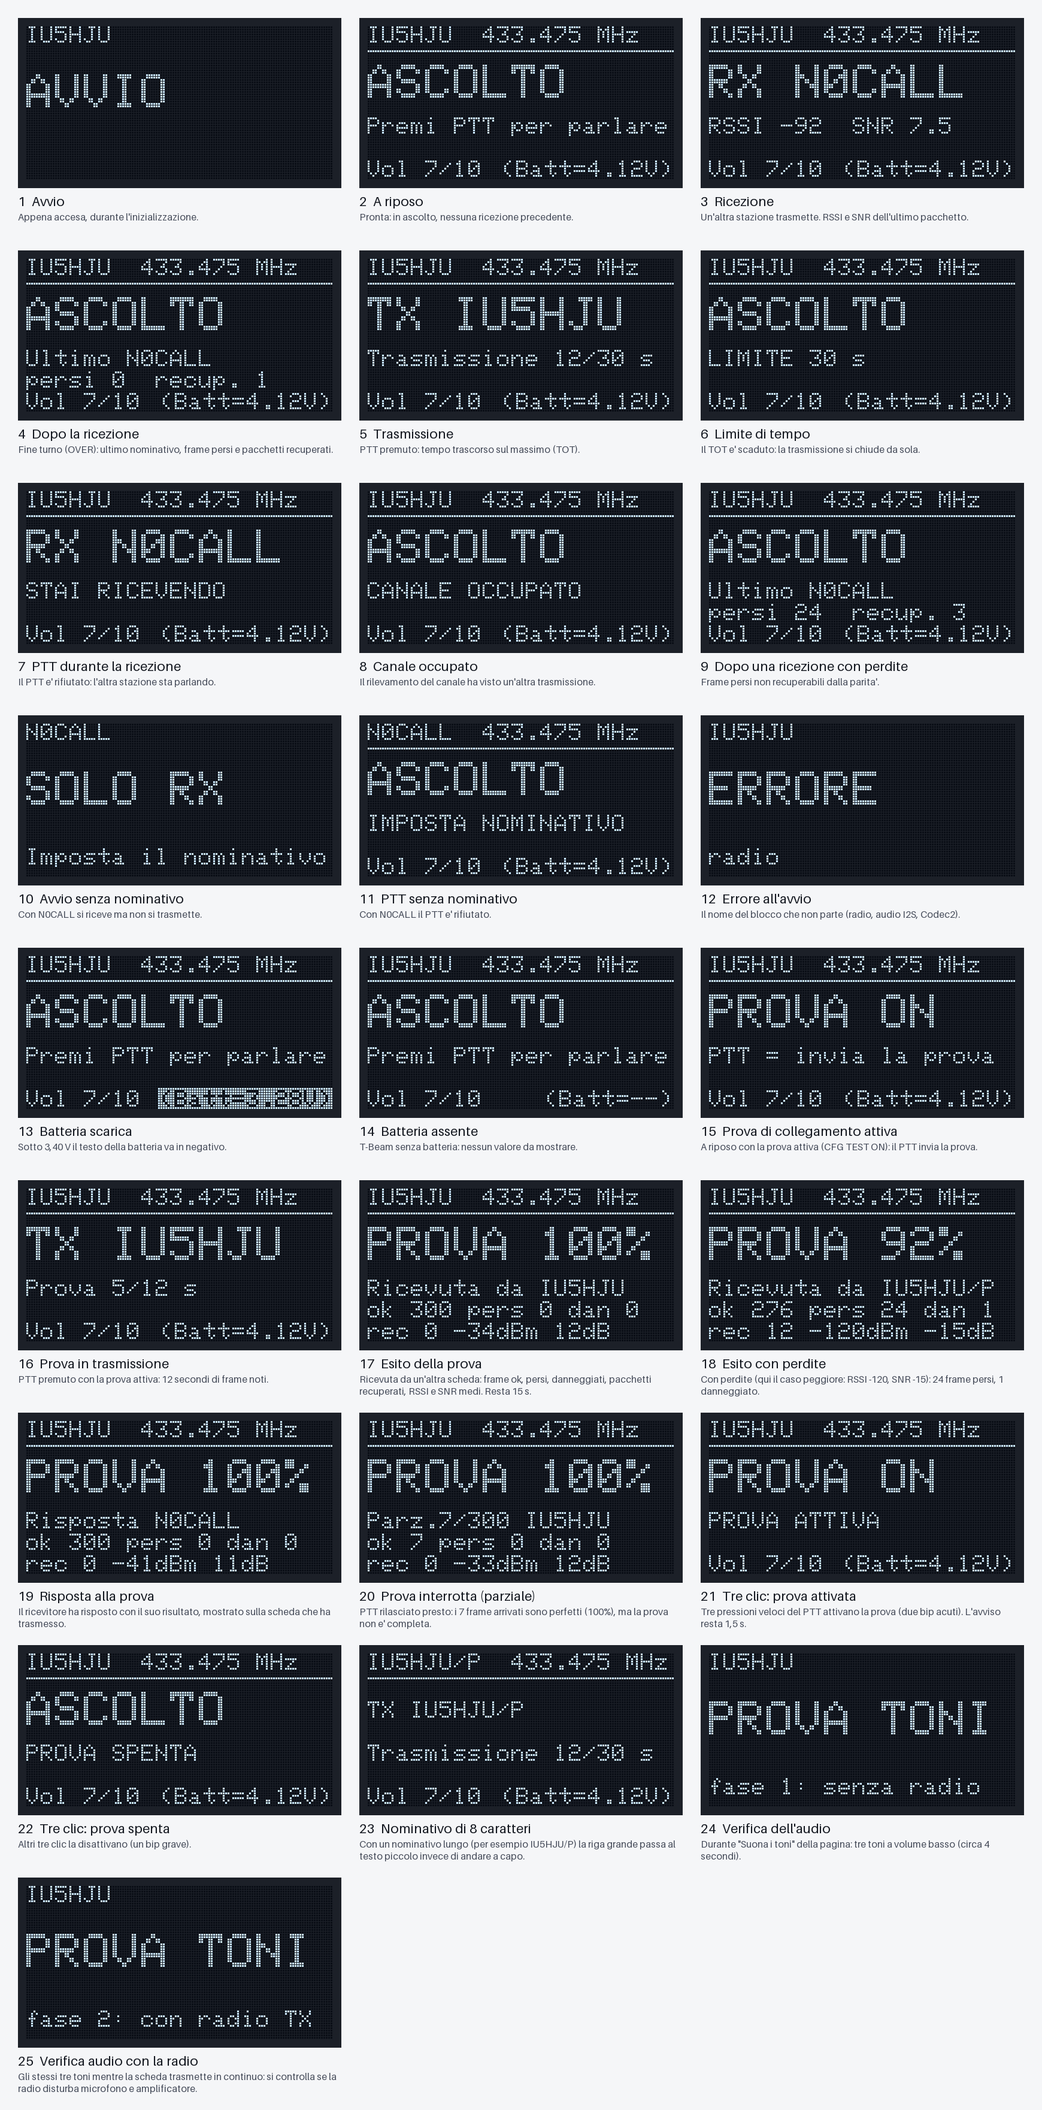
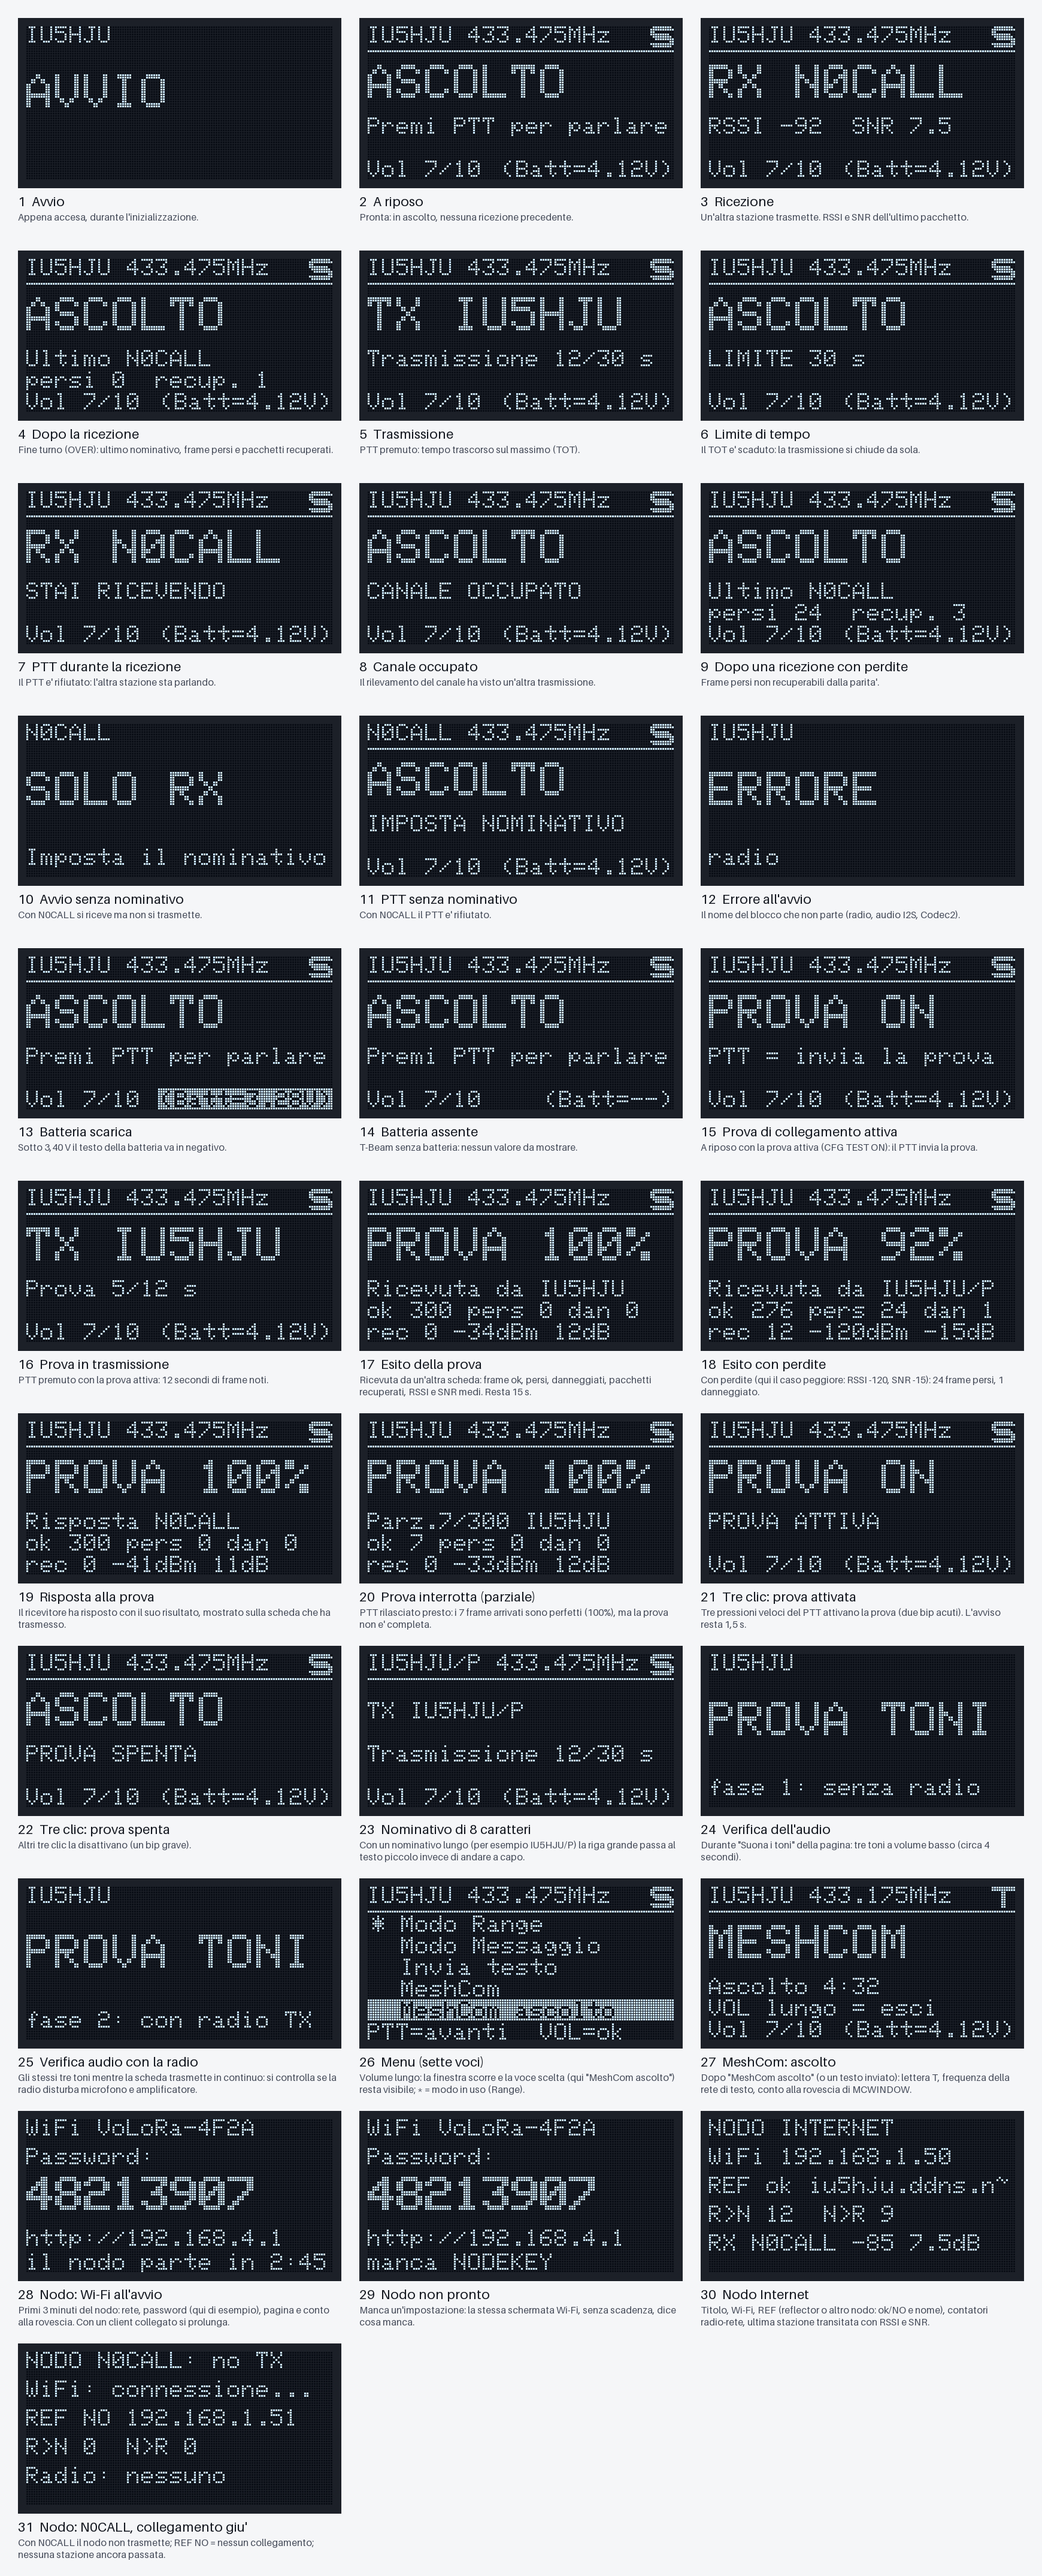
Mockup del display: menu a sette voci, MeshCom ascolto, nodo Internet e Wi-Fi del nodo (31 schermate); nominativo e lettera del profilo come nel firmware
Claude-Session: https://claude.ai/code/session_01XeozYwmYoAwuvXXpMrm81B

diff --git a/tools/render_display.py b/tools/render_display.py
@@ -89,6 +89,26 @@ class Oled:
                 self.px[y][x + i] = True
 
 
+BADGES = {
+    "S": [".XXXXXXXX.", "XXXXXXXXXX", "XX........", "XXXXXXXX..", ".XXXXXXXX.", "..XXXXXXXX", "........XX", "XXXXXXXXXX", ".XXXXXXXX."],
+    "M": ["XX......XX", "XXX....XXX", "XXXX..XXXX", "XX.XXXX.XX", "XX..XX..XX", "XX......XX", "XX......XX", "XX......XX", "XX......XX"],
+    "R": ["XXXXXXXX..", "XXXXXXXXX.", "XX.....XXX", "XX.....XXX", "XXXXXXXXX.", "XXXXXXXX..", "XX..XXX...", "XX...XXX..", "XX....XXXX"],
+    "T": ["XXXXXXXXXX", "XXXXXXXXXX", "....XX....", "....XX....", "....XX....", "....XX....", "....XX....", "....XX....", "....XX...."],
+}
+
+
+def header(o, callsign=CALLSIGN, freq=FREQ, badge="S"):
+    """Come l'inizio di UiNotifier::draw(): nominativo e frequenza, lettera del profilo (S/R/M, T in MeshCom) e riga di separazione."""
+    o.set_size(1)
+    o.set_cursor(0, 0)
+    o.write(f"{callsign} {freq}MHz")
+    for y, row in enumerate(BADGES[badge]):
+        for x, ch in enumerate(row):
+            if ch == "X":
+                o.px[y][118 + x] = True
+    o.hline(0, 10, 128)
+
+
 def big_text(o, y, text):
     """Come bigText() di src/ui.cpp: testo 2 fino a 10 caratteri, altrimenti testo 1 (niente a capo)."""
     fits = len(text) <= 10
@@ -113,16 +133,13 @@ def show_message(font, line1, line2=None, callsign=CALLSIGN):
 
 
 def draw_screen(font, state="idle", rx_call="", rssi=0, snr=0.0, tx_seconds=0, notice=None,
-                last=None, volume=7, callsign=CALLSIGN, battery=4.12, test_mode=False):
+                last=None, volume=7, callsign=CALLSIGN, battery=4.12, test_mode=False, mesh_sec=0):
     """Come UiNotifier::draw(). last = (nominativo, persi, recuperati) oppure None."""
     o = Oled(font)
-    o.set_size(1)
-    o.set_cursor(0, 0)
-    o.write(f"{callsign}  {FREQ} MHz")
-    o.hline(0, 10, 128)
+    header(o, callsign, "433.175" if mesh_sec else FREQ, "T" if mesh_sec else "S")
 
     if state == "idle":
-        big = "PROVA ON" if test_mode else "ASCOLTO"
+        big = "MESHCOM" if mesh_sec else ("PROVA ON" if test_mode else "ASCOLTO")
     elif state == "rx":
         big = f"RX {rx_call}"
     else:
@@ -137,6 +154,10 @@ def draw_screen(font, state="idle", rx_call="", rssi=0, snr=0.0, tx_seconds=0, n
         o.write(f"Prova {tx_seconds}/12 s" if test_mode else f"Trasmissione {tx_seconds}/30 s")
     elif state == "rx":
         o.write(f"RSSI {rssi}  SNR {snr:.1f}")
+    elif mesh_sec:
+        o.write(f"Ascolto {mesh_sec // 60}:{mesh_sec % 60:02d}")
+        o.set_cursor(0, 47)
+        o.write("VOL lungo = esci")
     elif last:
         o.write(f"Ultimo {last[0] or '-'}")
         o.set_cursor(0, 47)  # come src/ui.cpp
@@ -164,10 +185,7 @@ def draw_test_report(font, frames_ok, lost, bad, recovered, rssi, snr, call, rem
     """Come UiNotifier::drawTestReport(): esito della prova di collegamento (15 s)."""
     pct = 0 if frames_out == 0 else min(100, (100 * frames_ok + frames_out // 2) // frames_out)
     o = Oled(font)
-    o.set_size(1)
-    o.set_cursor(0, 0)
-    o.write(f"{callsign}  {FREQ} MHz")
-    o.hline(0, 10, 128)
+    header(o)
     o.set_size(2)
     o.set_cursor(0, 16)
     o.write(f"PROVA {pct}%")
@@ -181,6 +199,56 @@ def draw_test_report(font, frames_ok, lost, bad, recovered, rssi, snr, call, rem
     o.write(f"ok {frames_ok} pers {lost} dan {bad}")  # max 21 caratteri
     o.set_cursor(0, 56)
     o.write(f"rec {recovered} {rssi}dBm {snr}dB")
+    return o
+
+
+def draw_menu(font, labels, selected, current, callsign=CALLSIGN):
+    """Come UiNotifier::drawMenu(): cinque righe da 9 punti, la finestra scorre e la voce scelta resta visibile."""
+    o = Oled(font)
+    header(o, callsign)
+    rows = 5
+    first = selected - (rows - 1) if selected >= rows else 0
+    for i in range(first, min(len(labels), first + rows)):
+        y = 12 + (i - first) * 9
+        sel = i == selected
+        if sel:
+            o.fill_rect(0, y - 1, 128, 9)
+            o.inverse = True
+        o.set_cursor(2, y)
+        o.write(f"{'*' if i == current else ' '} {labels[i]}")
+        o.inverse = False
+    o.set_cursor(0, 57)
+    o.write("PTT=avanti  VOL=ok")
+    return o
+
+
+def show_wifi(font, ssid, password, footer):
+    """Come UiNotifier::showWifi(): password in carattere doppio e in grassetto."""
+    o = Oled(font)
+    o.set_size(1)
+    o.set_cursor(0, 0)
+    o.write(f"WiFi {ssid}")
+    o.set_cursor(0, 12)
+    o.write("Password:")
+    o.set_size(2)
+    for dx in range(2):
+        o.set_cursor(dx, 24)
+        o.write(password)
+    o.set_size(1)
+    o.set_cursor(0, 46)
+    o.write("http://192.168.4.1")
+    o.set_cursor(0, 56)
+    o.write(footer[:21])
+    return o
+
+
+def show_lines(font, lines):
+    """Come UiNotifier::showLines(): fino a cinque righe di testo piccolo, una ogni 12 punti, tagliate a 21 caratteri."""
+    o = Oled(font)
+    o.set_size(1)
+    for i, t in enumerate(lines):
+        o.set_cursor(0, i * 12)
+        o.write(t[:21])
     return o
 
 
@@ -236,6 +304,18 @@ def screens(font):
          show_message(font, "PROVA TONI", "fase 1: senza radio")),
         ("25  Verifica audio con la radio", "Gli stessi tre toni mentre la scheda trasmette in continuo: si controlla se la radio disturba microfono e amplificatore.",
          show_message(font, "PROVA TONI", "fase 2: con radio TX")),
+        ("26  Menu (sette voci)", "Volume lungo: la finestra scorre e la voce scelta (qui \"MeshCom ascolto\") resta visibile; * = modo in uso (Range).",
+         draw_menu(font, ["Modo Standard", "Modo Range", "Modo Messaggio", "Invia testo", "MeshCom", "MeshCom ascolto", "Wi-Fi"], 5, 1)),
+        ("27  MeshCom: ascolto", "Dopo \"MeshCom ascolto\" (o un testo inviato): lettera T, frequenza della rete di testo, conto alla rovescia di MCWINDOW.",
+         draw_screen(font, mesh_sec=272)),
+        ("28  Nodo: Wi-Fi all'avvio", "Primi 3 minuti del nodo: rete, password (qui di esempio), pagina e conto alla rovescia. Con un client collegato si prolunga.",
+         show_wifi(font, "VoLoRa-4F2A", "48213907", "il nodo parte in 2:45")),
+        ("29  Nodo non pronto", "Manca un'impostazione: la stessa schermata Wi-Fi, senza scadenza, dice cosa manca.",
+         show_wifi(font, "VoLoRa-4F2A", "48213907", "manca NODEKEY")),
+        ("30  Nodo Internet", "Titolo, Wi-Fi, REF (reflector o altro nodo: ok/NO e nome), contatori radio-rete, ultima stazione transitata con RSSI e SNR.",
+         show_lines(font, ["NODO INTERNET", "WiFi 192.168.1.50", "REF ok iu5hju.ddns.n~", "R>N 12  N>R 9", "RX N0CALL -85 7.5dB"])),
+        ("31  Nodo: N0CALL, collegamento giu'", "Con N0CALL il nodo non trasmette; REF NO = nessun collegamento; nessuna stazione ancora passata.",
+         show_lines(font, ["NODO N0CALL: no TX", "WiFi: connessione...", "REF NO 192.168.1.51", "R>N 0  N>R 0", "Radio: nessuno"])),
     ]
 
 

diff --git a/docs/display.md b/docs/display.md
@@ -10,7 +10,7 @@ automatico del codice in `src/ui.cpp`. Sul display reale i colori dipendono dal 
 
 - **Lettera del profilo:** in alto a destra, su ogni schermata, una lettera grande (bianca su nero, 10×9 punti) indica il profilo in uso: **S** Standard, **R** Range, **M** Messaggio. La riga del nominativo è stata accorciata (`IU5HJU 433.475MHz`) per farle posto.
 - **Menu (11/11/2026):** i tre profili si chiamano **Modo Standard**, **Modo Range** e **Modo Messaggio** (dal 12/11/2026; prima Standard, Messaggio e Qualità: la "à" di "Qualità" era il carattere CP437 del font dell'OLED, provato sulla scheda l'11/11/2026).
-- **Menu (14/11/2026):** sette voci: Standard, Range, Messaggio, Invia testo, MeshCom, **MeshCom ascolto** (solo ascolto per il tempo di `MCWINDOW`, senza inviare) e Wi-Fi.
+- **Menu (14/11/2026, schermata 26 del mockup):** sette voci: Standard, Range, Messaggio, Invia testo, MeshCom, **MeshCom ascolto** (solo ascolto per il tempo di `MCWINDOW`, senza inviare) e Wi-Fi.
 - **MeshCom (11/11/2026):** durante l'escursione sulle reti di testo la lettera in alto a destra è **T**, compare la frequenza della rete e lo schermo a riposo dice "MESHCOM" con il conto alla rovescia dell'ascolto; il menu ha sei voci (scorre: se ne vedono cinque, la scelta resta visibile) e la voce MeshCom apre due scelte (testo, poi destinatario). [meshcom-testo.md](meshcom-testo.md).
 - **Menu a bordo:** quattro voci (Standard, Range, Messaggio, Wi-Fi; dall'11/11 cinque, con "Invia testo"), una per riga; la scelta in negativo e il profilo in uso con `*`.
 - **Schermata Wi-Fi** (voce "Wi-Fi" del menu): in alto il nome della rete `VoLoRa-XXXX`, poi `Password:` e la **password in carattere doppio e in grassetto** (8 cifre), in basso `http://192.168.4.1` e `VOL lungo = esci`. Con questa schermata la scheda non trasmette e non riceve.
@@ -18,7 +18,7 @@ automatico del codice in `src/ui.cpp`. Sul display reale i colori dipendono dal 
 - **Modo Sysop (12/11/2026):** con `CFG SET SYSOPMODE ON` la voce "Invia testo" diventa "Comandi Sysop" e apre l'elenco dei comandi al ripetitore ("COMANDI SYSOP 3/10", PTT = altro, volume breve = invia). Durante l'invio la schermata dice "COMANDO" / "Trasmetto il comando"; la risposta del ripetitore compare per 4 s come avviso ("RIP: SPENTO", "RIP: ATTIVO 10dBm", "RIP: OK", "RIPETI IL COMANDO"). Vedi [studio-ripetitore.md](studio-ripetitore.md).
 - **Messaggi (11/11/2026):** a ricezione conclusa compare una **grande icona** (altoparlante = voce, busta = testo), "MESSAGGIO RICEVUTO" e "Premi PTT: ascolta" (o "leggi"); il PTT breve apre il messaggio. Il testo si legge a pagine di 6 righe (volume breve = pagina successiva). Il menu ha ora **cinque voci** (Standard, Range, Messaggio, **Invia testo**, Wi-Fi), senza titolo; "Invia testo" apre la scelta dei testi ("INVIA TESTO 2/5", "PTT=altro VOL=invia"). Dettagli in [modo-messaggio.md](modo-messaggio.md).
 - **Messaggio:** durante l'invio e la ricezione compare la percentuale (1-100%) con una barra di avanzamento.
-- L'immagine `images/display.png` è rigenerata dallo script (14/11/2026, 25 schermate, con `N0CALL` al posto dei nominativi di esempio e la frequenza predefinita 433.475 MHz) ma **non** mostra ancora le novità successive: le schermate della **prova di potenza** (in corso con la potenza, esito `MIN … dBm`, `NON PULITA`, `NESSUNA`) e i passi della prova sono descritti nel testo qui sopra.
+- L'immagine `images/display.png` è rigenerata dallo script (14/11/2026, 31 schermate: ora con nominativo e lettera del profilo in alto, menu, MeshCom, nodo Internet e Wi-Fi del nodo, con `N0CALL` al posto dei nominativi di esempio e la frequenza predefinita 433.475 MHz) ma **non** mostra ancora le novità successive: le schermate della **prova di potenza** (in corso con la potenza, esito `MIN … dBm`, `NON PULITA`, `NESSUNA`) e i passi della prova sono descritti nel testo qui sopra.
 
 ## Struttura di una schermata
 
@@ -75,9 +75,9 @@ In modo nodo la scheda non ha menu né lettera del profilo: cinque righe fisse, 
 | 2 | `WiFi 192.168.x.y` oppure `WiFi: connessione...` |
 | 3 | `REF ok iu5hju.ddns.n~` / `REF NO ...`: stato del collegamento con il reflector o con l'altro nodo e il suo nome (oltre 14 caratteri tagliato, con `~`) |
 | 4 | `R>N 12  N>R 9`: pacchetti dalla radio alla rete e dalla rete alla radio; con coda o pacchetti persi diversi da zero si aggiungono `C` e `P` |
-| 5 | l'ultima stazione transitata: `RX IU5HJU -85dBm 7.5dB` (fino a 5 s dopo l'ultimo pacchetto, poi `Ult`), `Radio: nessuno` se non è ancora passato niente |
+| 5 | l'ultima stazione transitata: `RX IU5HJU -85 7.5dB` (fino a 5 s dopo l'ultimo pacchetto, poi `Ult`), `Radio: nessuno` se non è ancora passato niente |
 
-Nei primi 3 minuti dopo l'accensione la schermata è quella del Wi-Fi di configurazione (rete, password, indirizzo e conto alla rovescia); se il nodo non è pronto dice cosa manca. Vedi [banco-nodo.md](banco-nodo.md). Le immagini del mockup non includono questa schermata.
+Nei primi 3 minuti dopo l'accensione la schermata è quella del Wi-Fi di configurazione (rete, password, indirizzo e conto alla rovescia); se il nodo non è pronto dice cosa manca. Vedi [banco-nodo.md](banco-nodo.md). Nel mockup sono le schermate 28-31.
 
 ## Batteria (in basso a destra)
 

diff --git a/docs/banco-nodo.md b/docs/banco-nodo.md
@@ -89,7 +89,7 @@ Costo: ogni avvio in modo nodo ritarda di 3 minuti la partenza del collegamento 
 
 ## Chi transita dal nodo (dal 14/11/2026, non ancora provato su una scheda)
 
-La schermata del nodo mostra in basso l'ultima stazione passata dal nodo, come la ricezione normale: **`RX IU5HJU -85dBm 7.5dB`** (nominativo, RSSI e SNR dell'ultimo pacchetto ricevuto in radio e mandato all'altro nodo). `RX` fino a 5 secondi dopo l'ultimo pacchetto, poi `Ult`; se il nominativo non è ancora arrivato compare `?`; senza nessun transito `Radio: nessuno`. Se la riga è troppo lunga (nominativo di 8 caratteri, valori molto bassi) si accorcia togliendo prima `dBm`, poi i decimali dell'SNR. La seriale scrive una riga per ogni stazione: `[nodo] transito N: <nominativo> RSSI ... dBm SNR ... dB`. Con N0CALL la prima riga dice `NODO N0CALL: no TX`. Coda e pacchetti persi compaiono nella riga dei contatori solo se non sono zero (`C` e `P`).
+La schermata del nodo mostra in basso l'ultima stazione passata dal nodo, come la ricezione normale: **`RX IU5HJU -85 7.5dB`** (nominativo, RSSI e SNR dell'ultimo pacchetto ricevuto in radio e mandato all'altro nodo). Con un nominativo di 6 caratteri il formato completo `RX IU5HJU -85dBm 7.5dB` supererebbe i 21 caratteri dello schermo: si scrive allora senza `dBm`. `RX` fino a 5 secondi dopo l'ultimo pacchetto, poi `Ult`; se il nominativo non è ancora arrivato compare `?`; senza nessun transito `Radio: nessuno`. Se la riga è troppo lunga (nominativo di 8 caratteri, valori molto bassi) si accorcia togliendo prima `dBm`, poi i decimali dell'SNR. La seriale scrive una riga per ogni stazione: `[nodo] transito N: <nominativo> RSSI ... dBm SNR ... dB`. Con N0CALL la prima riga dice `NODO N0CALL: no TX`. Coda e pacchetti persi compaiono nella riga dei contatori solo se non sono zero (`C` e `P`).
 
 ## Gestione dalla rete di casa (dal 14/11/2026, non ancora provata su una scheda)
 

diff --git a/docs/README.md b/docs/README.md
@@ -18,7 +18,7 @@
 | [audio.md](audio.md) | Collegamenti e catena audio del microfono, amplificatore e altoparlante |
 | [pinout.md](pinout.md) | Pin e schemi dei collegamenti della T3 V1.6.1 e della T-Beam V1.2 (anche con radio SX1262) |
 | [alimentazione.md](alimentazione.md) | Batteria e alimentazione, T-Beam AXP2101, lettura della tensione |
-| [display.md](display.md) | Le schermate dell'OLED (25 mockup) e le novità: lettera del profilo, menu, schermata Wi-Fi |
+| [display.md](display.md) | Le schermate dell'OLED (31 mockup) e le novità: lettera del profilo, menu, schermata Wi-Fi |
 | [versioni.md](versioni.md) | Numerazione delle versioni (SemVer con beta e rc), firmware e protocollo, come si pubblica una versione |
 | [codec2.md](codec2.md) | Modi del Codec2: costo in CPU e memoria, tempo in aria, ascolto comparativo (`codec_compare`) |
 | [sdr.md](sdr.md) | Ricevere e decodificare le trasmissioni con un SDR (NESDR / RTL-SDR, GNU Radio, `lcr_decode`) |
